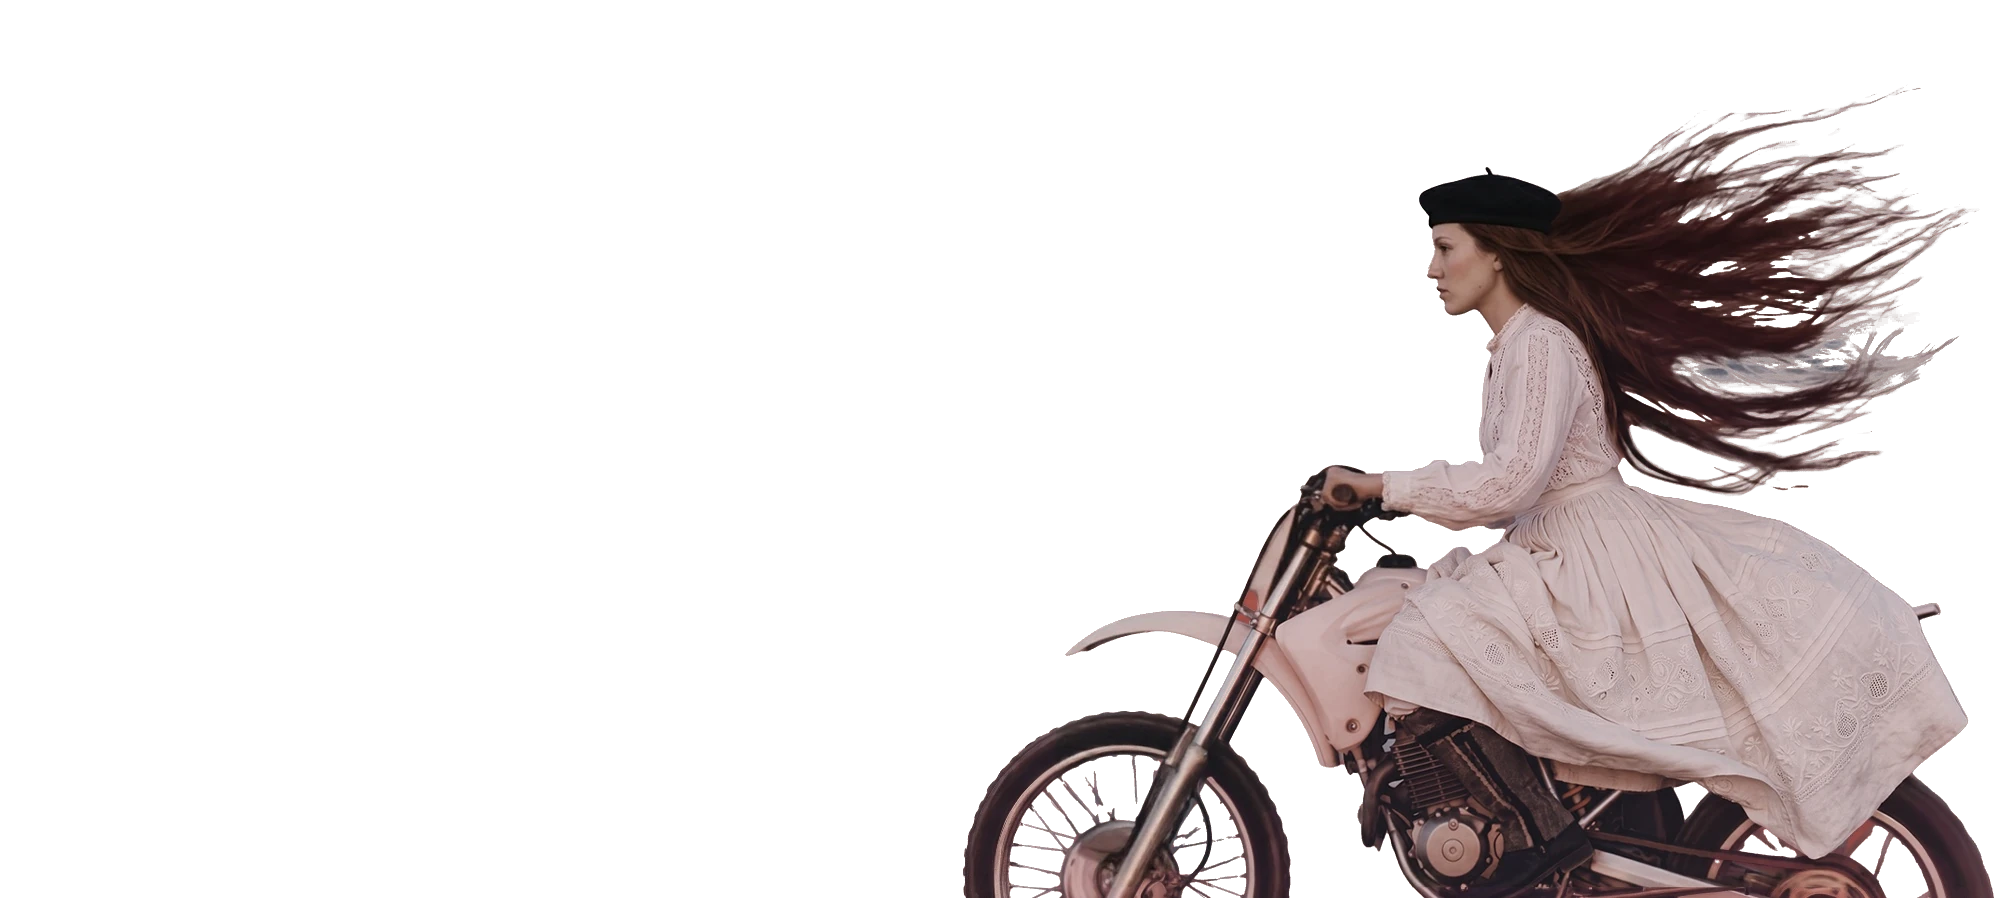
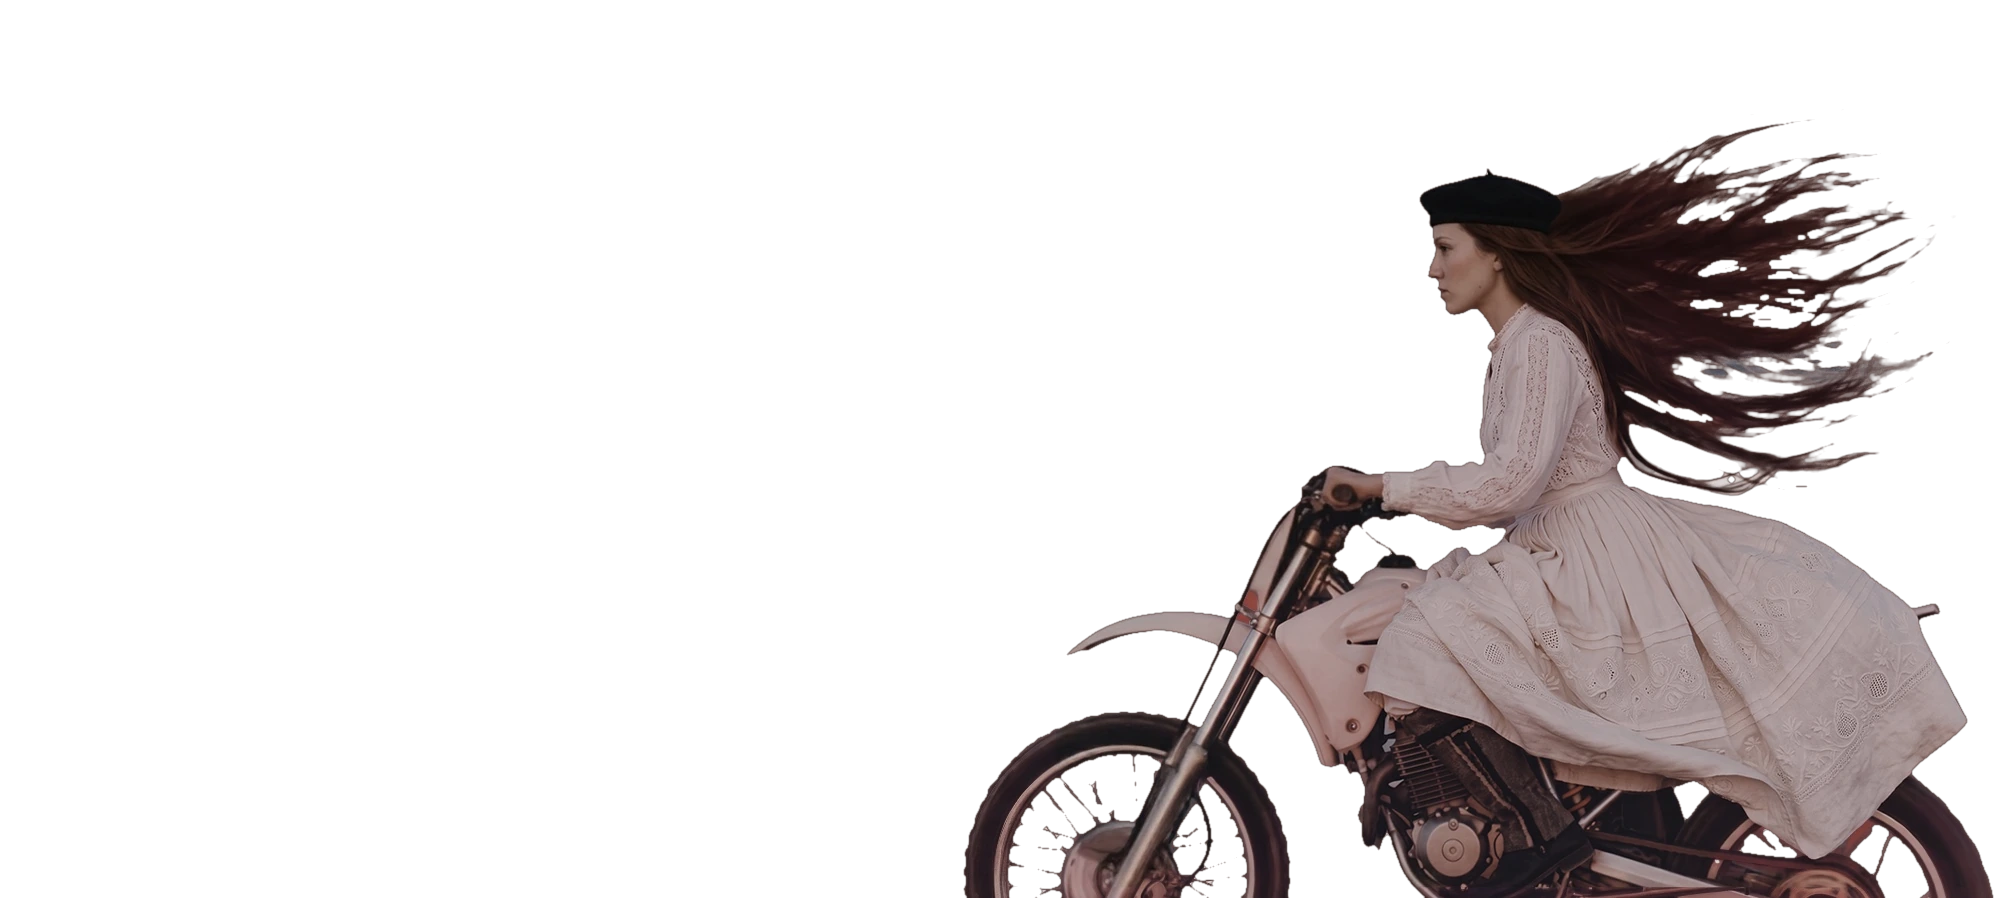
About: blue landscape, clean cutout, softer motion, animated grain (#386)
* Planet: the coastal strip is one smooth level shelf; roads lie low on it

Claude-Session: https://claude.ai/code/session_01BucFzL4zAQunrhkFUy8Pi4

* Planet: school yards on the level shelf, no raised platforms

Claude-Session: https://claude.ai/code/session_01BucFzL4zAQunrhkFUy8Pi4

* Planet: roads never below the ground, school yard on a deep base

Claude-Session: https://claude.ai/code/session_01BucFzL4zAQunrhkFUy8Pi4

* Planet: raised pavements with kerbs along the roads, people walking on them

Claude-Session: https://claude.ai/code/session_01BucFzL4zAQunrhkFUy8Pi4

* Planet: continuous river, hill removed from school area, market street joined to the road

Claude-Session: https://claude.ai/code/session_01BucFzL4zAQunrhkFUy8Pi4

* Lightbox: every picture once, no repeats

Claude-Session: https://claude.ai/code/session_01BucFzL4zAQunrhkFUy8Pi4

* Planet: wider roads, same-colour roundabout, pedestrians cross at zebras, alameda to the market, bigger square, river start, plain houses, gulls always fly, cars turn smoothly

Claude-Session: https://claude.ai/code/session_01BucFzL4zAQunrhkFUy8Pi4

* Planet: one continuous alameda: plaza with the round fountain in the middle, straight tree-lined walk to the market hall

Claude-Session: https://claude.ai/code/session_01BucFzL4zAQunrhkFUy8Pi4

* Planet: breakwater joined to the land, market street square on to the road

Claude-Session: https://claude.ai/code/session_01BucFzL4zAQunrhkFUy8Pi4
[…]

diff --git a/extras.js b/extras.js
@@ -257,8 +257,9 @@
     'html.x-about-on.x-about-on [data-xbgm]{background-image:none!important;background:transparent!important}html.x-about-on.x-about-on[data-xp="about"] [data-framer-name="Content"]::before{display:none!important}',
     'html.x-about-on [data-xnc],html.x-about-on [data-xn],html.x-about-on [data-xbl],html.x-about-on .x-dial,html.x-about-on .x-lang,html.x-about-on a[data-xf]{mix-blend-mode:normal!important}html.x-about-on [data-xn],html.x-about-on [data-xn] *,html.x-about-on .x-dial,html.x-about-on .x-lang,html.x-about-on .x-lang button,html.x-about-on [class*="framer-text"]{color:#fbefe9!important}html.x-about-on .x-dn{color:#3a1818}',
     'html.x-about-on.x-about-on [data-xn],html.x-about-on.x-about-on [data-xn] *,html.x-about-on.x-about-on [data-xnc] *,html.x-about-on.x-about-on [data-framer-name="Studio Link"] *,html.x-about-on.x-about-on [data-framer-name="Contact Link"] *{color:#fbefe9!important;mix-blend-mode:normal!important}html.x-about-on.x-about-on [data-xnc] img,html.x-about-on.x-about-on a[data-xf] *{filter:none!important;mix-blend-mode:normal!important}',
-    'html.x-about-on,html.x-about-on body{background:#994945!important;background-image:none!important}',
+    'html.x-about-on,html.x-about-on body{background:#2c5f9f!important;background-image:none!important}',
     '.x-ab-bg{position:absolute;left:0;top:0;width:100%;height:100vh;overflow:hidden;z-index:0;pointer-events:none;-webkit-mask-image:linear-gradient(#000 82%,transparent);mask-image:linear-gradient(#000 82%,transparent)}.x-ab-bgi{position:absolute;inset:-3%;width:106%;height:106%;object-fit:cover;object-position:center top;will-change:transform;transform-origin:50% 40%}',
+    '.x-ab-grain{position:fixed;inset:-80px;z-index:2;pointer-events:none;mix-blend-mode:overlay;opacity:.22;animation:x-grain .9s steps(6) infinite}@keyframes x-grain{0%{transform:translate(0,0)}17%{transform:translate(-37px,23px)}33%{transform:translate(29px,-41px)}50%{transform:translate(-18px,-12px)}67%{transform:translate(41px,31px)}83%{transform:translate(-26px,38px)}100%{transform:translate(0,0)}}@media (prefers-reduced-motion:reduce){.x-ab-grain{animation:none}}',
     '.x-ab-girl{position:fixed;right:0;bottom:0;height:min(80vh,56vw);z-index:1;pointer-events:none;will-change:transform,opacity;user-select:none}.x-ab-girl img{display:block;height:100%;width:auto;-webkit-user-drag:none}',
     'html[data-xp="about"] [data-framer-name="Wordmark"],html[data-xp="about"] [data-framer-name="Caption"]{z-index:5!important}',
     // titles in Plus Jakarta Sans, the display face of onseis.com (the small mono text keeps its own face)
@@ -2021,28 +2022,29 @@
   /* About: a painted landscape fills the page and its red ground carries on below; Marta rides across it, off to the left as you scroll (with a faint motion blur);
      the landscape tilts in 3D with the pointer; the text stays readable on top */
   (function aboutScene() {
-    var bg = null, bgi = null, girl = null, tx = null, mb = null, cx = 0, cy = 0, px = 0, py = 0, lastY = 0, vel = 0, run = false;
+    var grain = null, sm = 0, bg = null, bgi = null, girl = null, tx = null, mb = null, cx = 0, cy = 0, px = 0, py = 0, lastY = 0, vel = 0, run = false;
     var calm = matchMedia('(prefers-reduced-motion: reduce)').matches, coarse = matchMedia('(pointer:coarse)').matches;
     addEventListener('pointermove', function (e) { px = e.clientX / innerWidth - .5; py = e.clientY / innerHeight - .5; }, { passive: true });
     function frame() {
       if (!girl) { run = false; return; }
-      var y = window.scrollY || 0, dv = y - lastY; lastY = y; vel += (Math.abs(dv) - vel) * .3;
-      var p = Math.min(1, y / (innerHeight * .9)), e = p * p * (3 - 2 * p);
-      cx += (px - cx) * .07; cy += (py - cy) * .07;
+      var y = window.scrollY || 0, dv = y - lastY; lastY = y; vel += (Math.abs(dv) - vel) * .12;
+      sm += (y - sm) * .09; var p = Math.min(1, sm / (innerHeight * 1.1)), e = p * p * (3 - 2 * p);
+      cx += (px - cx) * .04; cy += (py - cy) * .04;
       var gx = -(e * (girl.offsetWidth + innerWidth * .25)) + (calm || coarse ? 0 : cx * 14), gy = calm || coarse ? 0 : cy * 8;
       girl.style.transform = 'translate3d(' + gx.toFixed(1) + 'px,' + gy.toFixed(1) + 'px,0)'; girl.style.opacity = p >= 1 ? '0' : '1';
-      var sd = calm ? 0 : Math.min(7, vel * .45); if (mb) mb.setAttribute('stdDeviation', sd.toFixed(2) + ' 0'); girl.style.filter = sd > .3 ? 'url(#x-mb)' : 'none';
-      if (!calm && !coarse && bgi) bgi.style.transform = 'perspective(1100px) rotateY(' + (cx * 5).toFixed(2) + 'deg) rotateX(' + (-cy * 3.5).toFixed(2) + 'deg) translate3d(' + (-cx * 26).toFixed(1) + 'px,' + (-cy * 16).toFixed(1) + 'px,0) scale(1.12)';
+      var sd = calm ? 0 : Math.min(2.4, Math.abs(sm - y) * .035 + vel * .08); if (mb) mb.setAttribute('stdDeviation', sd.toFixed(2) + ' 0'); girl.style.filter = sd > .25 ? 'url(#x-mb)' : 'none';
+      if (!calm && !coarse && bgi) bgi.style.transform = 'perspective(1100px) rotateY(' + (cx * 3).toFixed(2) + 'deg) rotateX(' + (-cy * 2).toFixed(2) + 'deg) translate3d(' + (-cx * 26).toFixed(1) + 'px,' + (-cy * 16).toFixed(1) + 'px,0) scale(1.12)';
       if (tx) tx.style.transform = 'translate3d(0,' + (-Math.max(0, y - innerHeight * .9)) + 'px,0)';
       requestAnimationFrame(frame);
     }
     function sync() {
       var on = document.documentElement.getAttribute('data-xp') === 'about';
       if (on && !bg) {
-        bg = document.createElement('div'); bg.className = 'x-ab-bg'; bg.setAttribute('aria-hidden', 'true'); bg.innerHTML = '<img class="x-ab-bgi" alt="" decoding="async" src="/extras/about-bg.webp?v=1">'; bgi = bg.firstChild; document.body.insertBefore(bg, document.body.firstChild);
-        girl = document.createElement('div'); girl.className = 'x-ab-girl'; girl.setAttribute('aria-hidden', 'true'); girl.innerHTML = '<img alt="" decoding="async" src="/extras/about-girl.webp?v=5"><svg width="0" height="0" style="position:absolute"><filter id="x-mb" x="-10%" y="-5%" width="120%" height="110%"><feGaussianBlur stdDeviation="0 0"/></filter></svg>'; mb = girl.querySelector('feGaussianBlur'); document.body.appendChild(girl);
+        bg = document.createElement('div'); bg.className = 'x-ab-bg'; bg.setAttribute('aria-hidden', 'true'); bg.innerHTML = '<img class="x-ab-bgi" alt="" decoding="async" src="/extras/about-bg.webp?v=2">'; bgi = bg.firstChild; document.body.insertBefore(bg, document.body.firstChild);
+        girl = document.createElement('div'); girl.className = 'x-ab-girl'; girl.setAttribute('aria-hidden', 'true'); girl.innerHTML = '<img alt="" decoding="async" src="/extras/about-girl.webp?v=9"><svg width="0" height="0" style="position:absolute"><filter id="x-mb" x="-10%" y="-5%" width="120%" height="110%"><feGaussianBlur stdDeviation="0 0"/></filter></svg>'; mb = girl.querySelector('feGaussianBlur'); document.body.appendChild(girl);
+        if (!grain) { var cv = document.createElement('canvas'); cv.width = cv.height = 160; var g2 = cv.getContext('2d'), id = g2.createImageData(160, 160); for (var i = 0; i < id.data.length; i += 4) { var v = 90 + Math.random() * 120; id.data[i] = id.data[i + 1] = id.data[i + 2] = v; id.data[i + 3] = 255; } g2.putImageData(id, 0, 0); grain = document.createElement('div'); grain.className = 'x-ab-grain'; grain.setAttribute('aria-hidden', 'true'); grain.style.backgroundImage = 'url(' + cv.toDataURL('image/png') + ')'; document.body.appendChild(grain); }
         document.documentElement.classList.add('x-about-on');
-      } else if (!on && bg) { bg.remove(); girl.remove(); bg = girl = bgi = mb = null; document.documentElement.classList.remove('x-about-on'); }
+      } else if (!on && bg) { bg.remove(); girl.remove(); if (grain) { grain.remove(); grain = null; } bg = girl = bgi = mb = null; document.documentElement.classList.remove('x-about-on'); }
       if (on) { if (bg && !bg.isConnected) document.body.insertBefore(bg, document.body.firstChild); if (girl && !girl.isConnected) document.body.appendChild(girl);
         if (!tx || !tx.isConnected) { tx = document.createElement('div'); tx.className = 'x-ab-txt'; tx.setAttribute('aria-hidden', 'true'); tx.innerHTML = '<h1></h1><p></p>'; document.body.appendChild(tx); }
         var w = document.querySelector('[data-framer-name="Wordmark"] p'), c = document.querySelector('[data-framer-name="Caption"] p, [data-framer-name="Caption"]'); if (w && tx.firstChild.textContent !== w.textContent) tx.firstChild.textContent = w.textContent; if (c && tx.lastChild.textContent !== c.textContent) tx.lastChild.textContent = c.textContent;

diff --git a/scripts/extras.js b/scripts/extras.js
@@ -257,8 +257,9 @@
     'html.x-about-on.x-about-on [data-xbgm]{background-image:none!important;background:transparent!important}html.x-about-on.x-about-on[data-xp="about"] [data-framer-name="Content"]::before{display:none!important}',
     'html.x-about-on [data-xnc],html.x-about-on [data-xn],html.x-about-on [data-xbl],html.x-about-on .x-dial,html.x-about-on .x-lang,html.x-about-on a[data-xf]{mix-blend-mode:normal!important}html.x-about-on [data-xn],html.x-about-on [data-xn] *,html.x-about-on .x-dial,html.x-about-on .x-lang,html.x-about-on .x-lang button,html.x-about-on [class*="framer-text"]{color:#fbefe9!important}html.x-about-on .x-dn{color:#3a1818}',
     'html.x-about-on.x-about-on [data-xn],html.x-about-on.x-about-on [data-xn] *,html.x-about-on.x-about-on [data-xnc] *,html.x-about-on.x-about-on [data-framer-name="Studio Link"] *,html.x-about-on.x-about-on [data-framer-name="Contact Link"] *{color:#fbefe9!important;mix-blend-mode:normal!important}html.x-about-on.x-about-on [data-xnc] img,html.x-about-on.x-about-on a[data-xf] *{filter:none!important;mix-blend-mode:normal!important}',
-    'html.x-about-on,html.x-about-on body{background:#994945!important;background-image:none!important}',
+    'html.x-about-on,html.x-about-on body{background:#2c5f9f!important;background-image:none!important}',
     '.x-ab-bg{position:absolute;left:0;top:0;width:100%;height:100vh;overflow:hidden;z-index:0;pointer-events:none;-webkit-mask-image:linear-gradient(#000 82%,transparent);mask-image:linear-gradient(#000 82%,transparent)}.x-ab-bgi{position:absolute;inset:-3%;width:106%;height:106%;object-fit:cover;object-position:center top;will-change:transform;transform-origin:50% 40%}',
+    '.x-ab-grain{position:fixed;inset:-80px;z-index:2;pointer-events:none;mix-blend-mode:overlay;opacity:.22;animation:x-grain .9s steps(6) infinite}@keyframes x-grain{0%{transform:translate(0,0)}17%{transform:translate(-37px,23px)}33%{transform:translate(29px,-41px)}50%{transform:translate(-18px,-12px)}67%{transform:translate(41px,31px)}83%{transform:translate(-26px,38px)}100%{transform:translate(0,0)}}@media (prefers-reduced-motion:reduce){.x-ab-grain{animation:none}}',
     '.x-ab-girl{position:fixed;right:0;bottom:0;height:min(80vh,56vw);z-index:1;pointer-events:none;will-change:transform,opacity;user-select:none}.x-ab-girl img{display:block;height:100%;width:auto;-webkit-user-drag:none}',
     'html[data-xp="about"] [data-framer-name="Wordmark"],html[data-xp="about"] [data-framer-name="Caption"]{z-index:5!important}',
     // titles in Plus Jakarta Sans, the display face of onseis.com (the small mono text keeps its own face)
@@ -2021,28 +2022,29 @@
   /* About: a painted landscape fills the page and its red ground carries on below; Marta rides across it, off to the left as you scroll (with a faint motion blur);
      the landscape tilts in 3D with the pointer; the text stays readable on top */
   (function aboutScene() {
-    var bg = null, bgi = null, girl = null, tx = null, mb = null, cx = 0, cy = 0, px = 0, py = 0, lastY = 0, vel = 0, run = false;
+    var grain = null, sm = 0, bg = null, bgi = null, girl = null, tx = null, mb = null, cx = 0, cy = 0, px = 0, py = 0, lastY = 0, vel = 0, run = false;
     var calm = matchMedia('(prefers-reduced-motion: reduce)').matches, coarse = matchMedia('(pointer:coarse)').matches;
     addEventListener('pointermove', function (e) { px = e.clientX / innerWidth - .5; py = e.clientY / innerHeight - .5; }, { passive: true });
     function frame() {
       if (!girl) { run = false; return; }
-      var y = window.scrollY || 0, dv = y - lastY; lastY = y; vel += (Math.abs(dv) - vel) * .3;
-      var p = Math.min(1, y / (innerHeight * .9)), e = p * p * (3 - 2 * p);
-      cx += (px - cx) * .07; cy += (py - cy) * .07;
+      var y = window.scrollY || 0, dv = y - lastY; lastY = y; vel += (Math.abs(dv) - vel) * .12;
+      sm += (y - sm) * .09; var p = Math.min(1, sm / (innerHeight * 1.1)), e = p * p * (3 - 2 * p);
+      cx += (px - cx) * .04; cy += (py - cy) * .04;
       var gx = -(e * (girl.offsetWidth + innerWidth * .25)) + (calm || coarse ? 0 : cx * 14), gy = calm || coarse ? 0 : cy * 8;
       girl.style.transform = 'translate3d(' + gx.toFixed(1) + 'px,' + gy.toFixed(1) + 'px,0)'; girl.style.opacity = p >= 1 ? '0' : '1';
-      var sd = calm ? 0 : Math.min(7, vel * .45); if (mb) mb.setAttribute('stdDeviation', sd.toFixed(2) + ' 0'); girl.style.filter = sd > .3 ? 'url(#x-mb)' : 'none';
-      if (!calm && !coarse && bgi) bgi.style.transform = 'perspective(1100px) rotateY(' + (cx * 5).toFixed(2) + 'deg) rotateX(' + (-cy * 3.5).toFixed(2) + 'deg) translate3d(' + (-cx * 26).toFixed(1) + 'px,' + (-cy * 16).toFixed(1) + 'px,0) scale(1.12)';
+      var sd = calm ? 0 : Math.min(2.4, Math.abs(sm - y) * .035 + vel * .08); if (mb) mb.setAttribute('stdDeviation', sd.toFixed(2) + ' 0'); girl.style.filter = sd > .25 ? 'url(#x-mb)' : 'none';
+      if (!calm && !coarse && bgi) bgi.style.transform = 'perspective(1100px) rotateY(' + (cx * 3).toFixed(2) + 'deg) rotateX(' + (-cy * 2).toFixed(2) + 'deg) translate3d(' + (-cx * 26).toFixed(1) + 'px,' + (-cy * 16).toFixed(1) + 'px,0) scale(1.12)';
       if (tx) tx.style.transform = 'translate3d(0,' + (-Math.max(0, y - innerHeight * .9)) + 'px,0)';
       requestAnimationFrame(frame);
     }
     function sync() {
       var on = document.documentElement.getAttribute('data-xp') === 'about';
       if (on && !bg) {
-        bg = document.createElement('div'); bg.className = 'x-ab-bg'; bg.setAttribute('aria-hidden', 'true'); bg.innerHTML = '<img class="x-ab-bgi" alt="" decoding="async" src="/extras/about-bg.webp?v=1">'; bgi = bg.firstChild; document.body.insertBefore(bg, document.body.firstChild);
-        girl = document.createElement('div'); girl.className = 'x-ab-girl'; girl.setAttribute('aria-hidden', 'true'); girl.innerHTML = '<img alt="" decoding="async" src="/extras/about-girl.webp?v=5"><svg width="0" height="0" style="position:absolute"><filter id="x-mb" x="-10%" y="-5%" width="120%" height="110%"><feGaussianBlur stdDeviation="0 0"/></filter></svg>'; mb = girl.querySelector('feGaussianBlur'); document.body.appendChild(girl);
+        bg = document.createElement('div'); bg.className = 'x-ab-bg'; bg.setAttribute('aria-hidden', 'true'); bg.innerHTML = '<img class="x-ab-bgi" alt="" decoding="async" src="/extras/about-bg.webp?v=2">'; bgi = bg.firstChild; document.body.insertBefore(bg, document.body.firstChild);
+        girl = document.createElement('div'); girl.className = 'x-ab-girl'; girl.setAttribute('aria-hidden', 'true'); girl.innerHTML = '<img alt="" decoding="async" src="/extras/about-girl.webp?v=9"><svg width="0" height="0" style="position:absolute"><filter id="x-mb" x="-10%" y="-5%" width="120%" height="110%"><feGaussianBlur stdDeviation="0 0"/></filter></svg>'; mb = girl.querySelector('feGaussianBlur'); document.body.appendChild(girl);
+        if (!grain) { var cv = document.createElement('canvas'); cv.width = cv.height = 160; var g2 = cv.getContext('2d'), id = g2.createImageData(160, 160); for (var i = 0; i < id.data.length; i += 4) { var v = 90 + Math.random() * 120; id.data[i] = id.data[i + 1] = id.data[i + 2] = v; id.data[i + 3] = 255; } g2.putImageData(id, 0, 0); grain = document.createElement('div'); grain.className = 'x-ab-grain'; grain.setAttribute('aria-hidden', 'true'); grain.style.backgroundImage = 'url(' + cv.toDataURL('image/png') + ')'; document.body.appendChild(grain); }
         document.documentElement.classList.add('x-about-on');
-      } else if (!on && bg) { bg.remove(); girl.remove(); bg = girl = bgi = mb = null; document.documentElement.classList.remove('x-about-on'); }
+      } else if (!on && bg) { bg.remove(); girl.remove(); if (grain) { grain.remove(); grain = null; } bg = girl = bgi = mb = null; document.documentElement.classList.remove('x-about-on'); }
       if (on) { if (bg && !bg.isConnected) document.body.insertBefore(bg, document.body.firstChild); if (girl && !girl.isConnected) document.body.appendChild(girl);
         if (!tx || !tx.isConnected) { tx = document.createElement('div'); tx.className = 'x-ab-txt'; tx.setAttribute('aria-hidden', 'true'); tx.innerHTML = '<h1></h1><p></p>'; document.body.appendChild(tx); }
         var w = document.querySelector('[data-framer-name="Wordmark"] p'), c = document.querySelector('[data-framer-name="Caption"] p, [data-framer-name="Caption"]'); if (w && tx.firstChild.textContent !== w.textContent) tx.firstChild.textContent = w.textContent; if (c && tx.lastChild.textContent !== c.textContent) tx.lastChild.textContent = c.textContent;
